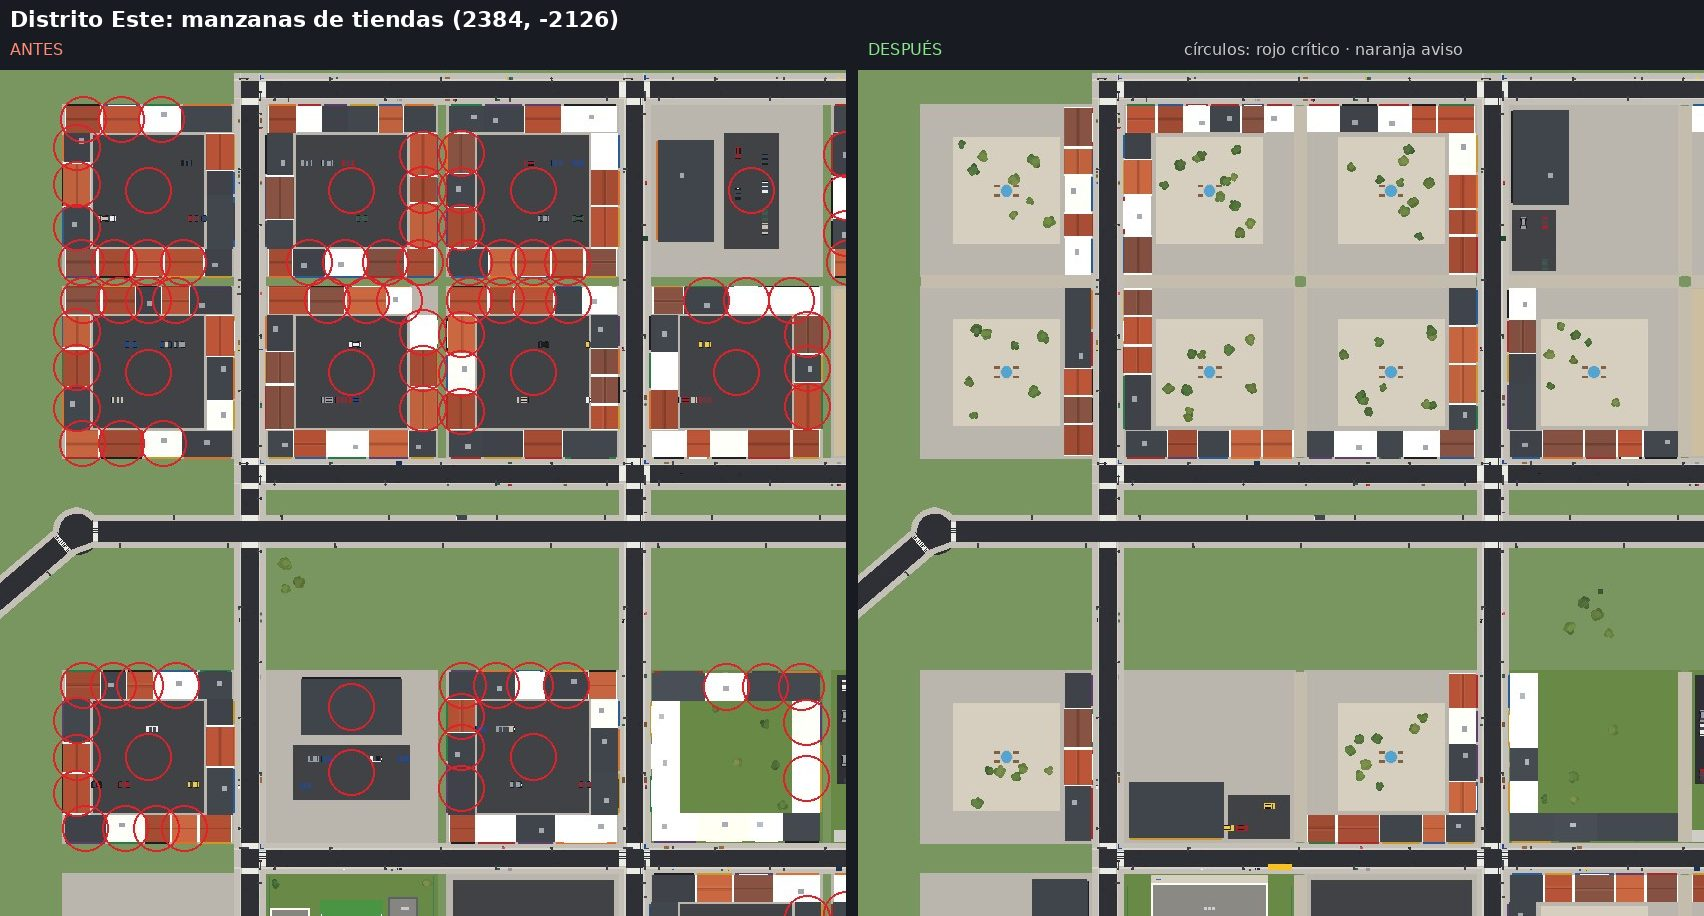
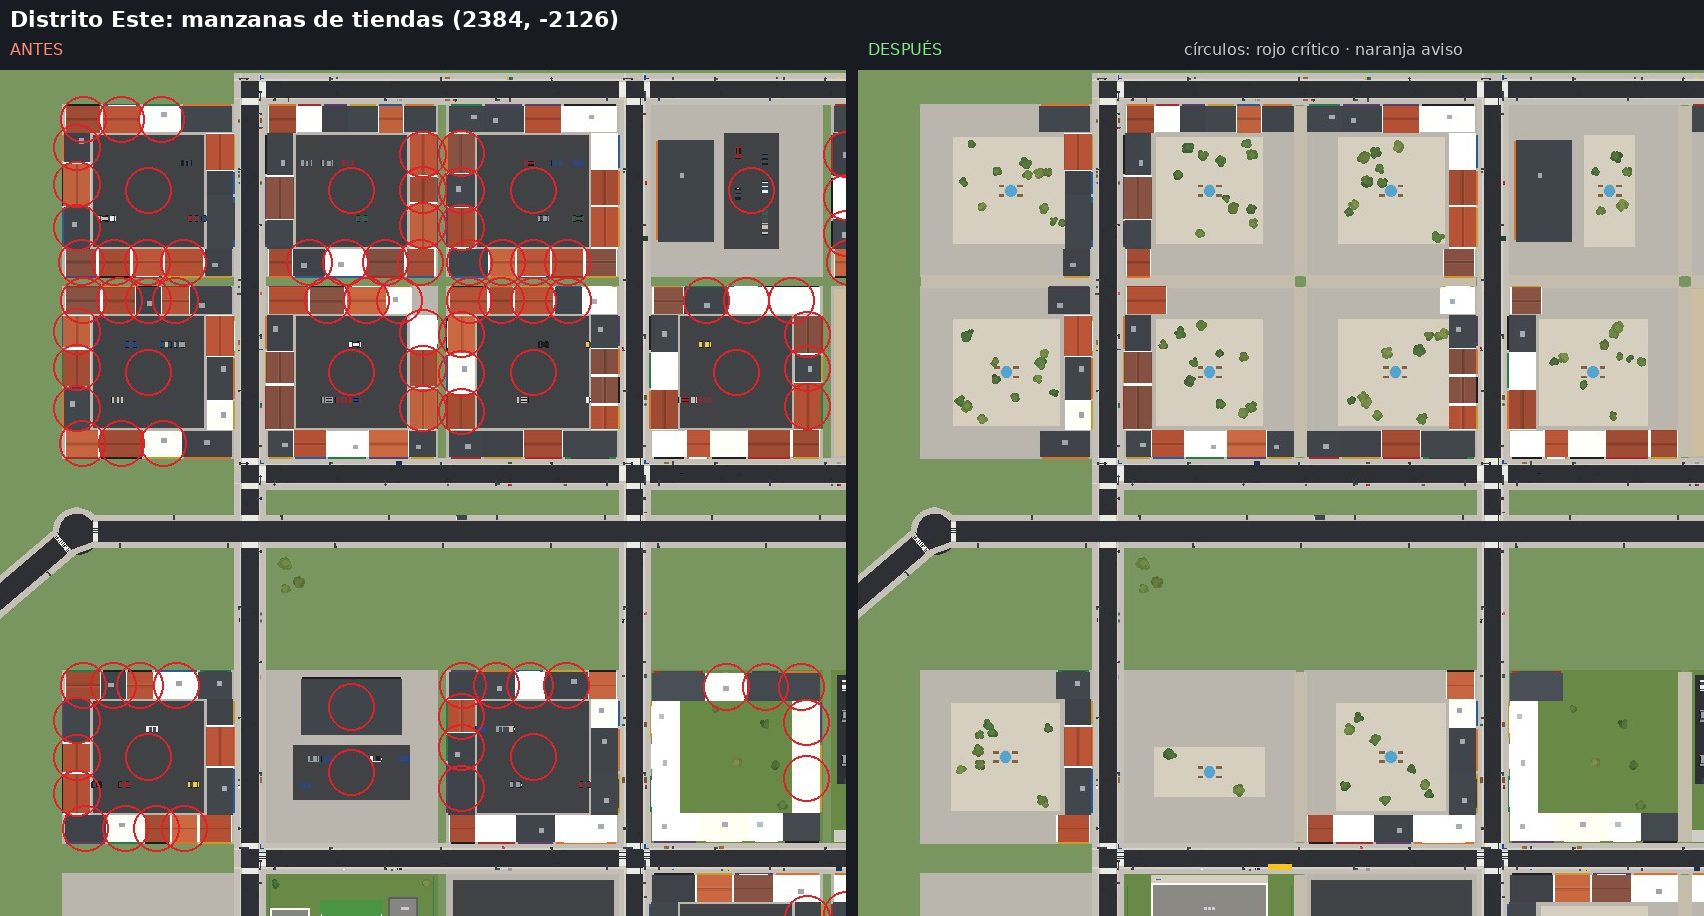
Mapa: hoteles rehechos mirando a la calle, mapa de claves, imágenes y documento al día
Claude-Session: https://claude.ai/code/session_01NLHSc9vUgM3Lfn2jUL556r

diff --git a/roblox/docs/mapa/revision/revision-mapa.md b/roblox/docs/mapa/revision/revision-mapa.md
@@ -41,7 +41,7 @@ python3 scripts/map/vista_cenital.py DIR/parts.tsv salida.jpg --issues coherenci
 | | Críticos | Avisos | Piezas |
 |---|---|---|---|
 | Antes | **810** | 74 | 416 757 |
-| Después | **0** | 18 | 365 332 |
+| Después | **0** | 50 | 364 750 |
 
 Antes, por distrito (críticos): Oeste 378, Este 202, Universitario 129, Sur 43, Norte 28, Centro 23,
 Playa Dorada 4, sitios de ocio en el campo 3. Casi todo era `sin_acceso` (783 unidades): casas, tiendas
@@ -51,11 +51,17 @@ manzanas al 84–96 % en el centro, 4 trozos de arena tapando la calle de Playa 
 Peores sitios antes: (2384, −2126) Este, (2892, −1144) Este, (−1627, −380) Oeste, (−2129, −1127) Oeste,
 (−1627, 2625) Oeste, (2903, −629) Este.
 
-Avisos que quedan (a propósito): 13 `calle_doble` (la cuadrícula a 45 studs de la circunvalación del
-Distrito Financiero, de Los Pinos y de Playa Dorada: quitar esos tramos deja sin acera la Protectora, los
-Jardines de la Plaza Mayor y la rampa de la estación de Cercanías de Los Pinos), las casas familiares
-de Los Pinos (72 %, son de la historia), una residencia del campus, la boca de metro del parque del
-Distrito Financiero y un cruce del final de la Calle del Puerto.
+Avisos que quedan (a propósito):
+- 13 `calle_doble`: la cuadrícula a 45 studs de la circunvalación del Distrito Financiero, de Los Pinos
+  y de Playa Dorada. Quitar esos tramos deja sin acera la Protectora, los Jardines de la Plaza Mayor y
+  la rampa de la estación de Cercanías de Los Pinos, y cambiaría las calles (y con ellas el azar y las
+  claves de todos los edificios: ver abajo).
+- 5 `calle_cortada` por la misma razón (las calles no se tocan).
+- 25 `sin_acceso` de aviso: casas y villas a 23–28 studs de la acera (jardín delantero).
+- 4 `zonificacion`: rascacielos de antes en manzanas del centro fuera de la franja norte (se quedan
+  para no cambiar claves de edificios).
+- Las casas familiares de Los Pinos (72 %, son de la historia), una residencia del campus y la boca de
+  metro del parque del Distrito Financiero.
 
 ## Las causas y los arreglos (en el código que genera el mapa)
 
@@ -63,41 +69,77 @@ Distrito Financiero y un cruce del final de la Calle del Puerto.
    las calles; luego `Kit/Grid` y `Kit/Connect` quitan los trozos de calle que no llegan a ningún cruce,
    y quedaban manzanas enteras en medio del campo. Además, fuera de la Ronda cada cuadra de 500 se parte
    en 4 manzanas con un hueco de 16 studs, y los edificios se ponían en los 4 lados: la mitad miraba al
-   hueco. Ahora `Districts.lots` solo construye las manzanas que dan a una calle de verdad y anota sus
-   lados con calle (`Sides`): casas, pisos, tiendas, villas, hoteles, facultades… solo miran a esos lados.
-   Los lugares emblemáticos se eligen entre esas manzanas y su fachada da a una calle.
-2. **Medias manzanas estrechas** junto a las avenidas del centro (80 studs): dos filas de 40 de fondo y
-   hasta 16 plantas espalda con espalda, metidas una en otra, y rascacielos de 50–72 studs en ellas.
-   Ahora el fondo de cada fila se recorta, las esquinas son de los lados largos, las filas son más bajas
-   (5–9 plantas) y los rascacielos solo van en manzanas anchas.
-3. **Zonificación del centro**: rascacielos sorteados en cualquier manzana y manzanas enteras de
-   aparcamiento. Ahora los rascacielos quedan en la franja norte (junto al Distrito Financiero) y el
-   resto son bloques de pisos con tiendas y parques (sin cambiar el sorteo: el resto del mapa no se mueve).
-4. **Aparcamientos sin entrada**: dentro del patio de las manzanas de tiendas (ahora plaza peatonal) y
-   detrás de los locales de ocio y los talleres (ahora al lado, los dos mirando a la calle). El campo de
-   deporte va junto a la calle, con la grada detrás.
-5. **Huecos entre manzanas y carreteras**: junto a la Ronda y las avenidas la cuadrícula se aparta 25–40
+   hueco. Ahora `Districts.lots` sabe qué manzanas dan a una calle y por qué lados (`Sides`), y
+   `Districts.tidy` quita las manzanas sin calle y los edificios, casas, villas y aparcamientos que no
+   miran a ningún lado con calle.
+2. **Medias manzanas estrechas** junto a las avenidas del centro (80 studs): dos filas de 40 de fondo
+   espalda con espalda, metidas una en otra, y rascacielos de 50–72 studs en ellas. Ahora se queda la
+   fila que da a la avenida y ningún edificio se mete en otro.
+3. **Aparcamientos sin entrada**: dentro del patio de las manzanas de tiendas (ahora plaza peatonal) y
+   detrás de los locales de ocio y los talleres (fuera). El campo de deporte va junto a la calle, con la
+   grada detrás; los hoteles que miraban a un hueco se rehacen mirando a la calle.
+4. **Huecos entre manzanas y carreteras**: junto a la Ronda y las avenidas la cuadrícula se aparta 25–40
    studs; esa franja de hierba ahora es acera (`AceraManzana`), y los huecos de 16 studs entre manzanas,
    paseos peatonales (`Paseo`).
-6. **Calles cortadas** (`Region.roads`): calles que cruzan una carretera en ángulo muy cerrado quedaban
-   cortadas a unos studs de ella. Ahora se alargan hasta tocarla o se recortan hasta su último cruce.
-7. **Sitios de ocio como islas** (`Kit/ZonasVerdes/Accesos`, nuevo): mercadillo, vóley playa,
+5. **Sitios de ocio como islas** (`Kit/ZonasVerdes/Accesos`, nuevo): mercadillo, vóley playa,
    polideportivo, karting y skatepark tienen un camino de baldosas hasta la acera más cercana.
-8. **Arena sobre la calle** (`Civic.beach`): la arena de Playa Dorada pasaba 30 studs del borde de la
+6. **Arena sobre la calle** (`Civic.beach`): la arena de Playa Dorada pasaba 30 studs del borde de la
    manzana y tapaba la circunvalación.
+7. **Lugares emblemáticos** con la fachada a un hueco sin calle (o en una manzana sin calle): se rehacen
+   mirando a la calle (o en la manzana libre más cercana de su distrito).
+
+## Las partidas guardadas: claves de los edificios
+
+Las partidas guardan los edificios por su clave (`InteriorService`: `<Tipo>_<X>_<Z>`, el centro del
+edificio): viviendas compradas, alquiladas e iniciales (`data.Properties`, `data.Housing.Home`) y
+negocios (`BusinessService`: locales `L:<clave>`, hoteles `H:x_z`). Por eso:
+
+- **Los edificios que se quedan conservan su clave.** `Districts.build` construye cada manzana
+  exactamente como antes (mismo orden y mismo `math.random`) y después, sin azar, quita lo que sobra
+  (`Districts.tidy`); lo que hay que volver a construir con azar (lugares emblemáticos, campos de
+  deporte, hoteles, plazas) va al final de `TownBuilder` (`Districts.finish`), cuando ya no mueve nada
+  más. Las calles no cambian. Resultado: de los 2042 edificios con clave del mapa publicado, 1270 siguen
+  igual, 772 se han quitado y 13 son nuevos (lugares emblemáticos girados).
+- **Mapa de claves** (`src/server/Migrations/BuildingKeyMap.luau`, GENERADO): para cada clave quitada
+  (772 edificios y 185 negocios), hasta 6 sustitutos del mismo tipo (casa↔villa, piso en un portal o
+  un local), del mismo distrito si se puede y el más cercano primero. Se rehace así:
+
+  ```
+  lune run scripts/map/building-keys.luau MAPA_PUBLICADO.rbxl antes.json
+  lune run scripts/map/building-keys.luau MAPA_NUEVO.rbxl despues.json
+  python3 scripts/map/key-map.py antes.json despues.json --version 1
+  ```
+
+  (`scripts/map/data/claves-v1.json`: todas las claves del mapa de antes; son las mismas que las del
+  `RealLifeSimulator.rbxl` publicado.)
+- **Migración al cargar** (`Migrations/BuildingKeyMigration`, funciones puras, y
+  `HousingService.migrateKeys`): cada vivienda de un edificio quitado se muda al primer sustituto con
+  sitio (`PropertyService.relocate`: la misma planta y letra si vale y está libre; si no, la primera
+  libre), con su contrato, precio, alquiler y deuda; «Ir a casa» va detrás. Si no hay sitio: se devuelve
+  lo pagado (compra), se perdona la deuda (alquiler) o le llega otra vivienda inicial. El sitio
+  guardado (`data.Position`) donde había un edificio quitado se borra (aparece en la entrada o en su
+  cama). Un aviso al jugador. Una sola vez (`Housing.KeyMigration`, que pasa a la vida nueva); si el
+  DataStore falla, no se toca nada y se vuelve a intentar en la próxima carga.
+- **Negocios** (`BusinessService.migratePremises`, al arrancar el servidor): el registro entero de un
+  local u hotel quitado (tipo, nombre, caja, género, empleados) pasa al primer sustituto libre; si no
+  hay, se da de baja y lo que costó se devuelve a su dueño cuando entra (`Reembolsos`, con aviso).
+- **Prueba**: `lune run scripts/test-buildingkeys.luau [MAPA.rbxl]` (la migración con datos de mentira;
+  con el mapa, que toda clave de antes sigue o está en el mapa con un sustituto que existe).
 
 ## Qué se ha movido
 
 - No se mueve: casa familiar, Los Pinos, colegio de Los Pinos, garaje de Cosme, comisarías, bomberos,
-  hospital, metro, Cercanías, aeropuerto, Valmar Centro, zonas verdes y de ocio, ni las calles de los barrios.
+  hospital, metro, Cercanías, aeropuerto, Valmar Centro, zonas verdes y de ocio, las calles, ni los
+  edificios de los barrios.
 - El Colegio del Distrito Sur y el Instituto de Levante ahora miran al norte (su fachada sur daba a un
   paseo sin calle): sus marcas de la historia (`StorySpot`, `StoryArea`, `StoryProp`) van con ellos.
 - Supermercados Norte, Sur, Poniente y Campus giran hacia su calle (unos 30–60 studs); la Armería del
-  Puerto pasa a otra manzana del Distrito Sur (993, 2163); el cuartel del ejército (la nave más al este)
-  pasa a (1044, 1504).
-- Ya no están los 4 hoteles de la costa oeste que no tenían calle (quedan 4), ni las casas y villas que
-  miraban a huecos sin calle: casas visitables 536 → 266, villas 60 → 28, viviendas en total
-  1894 → 1202 (siguen sobrando para jugar). Parques vivos: 25 (eran 30).
+  Puerto pasa a otra manzana del Distrito Sur (993, 2163).
+- Ya no están los 4 hoteles de la costa oeste que no tenían calle (quedan 4, rehechos mirando a la
+  calle), ni las casas y villas que miraban a huecos sin calle: casas visitables 536 → 263, villas
+  60 → 35, viviendas en total 1894 → 1170. Parques vivos: 25 (eran 30).
+- Los vecinos de la historia (`PropertyService`: viviendas de vecinos por sorteo fijo) pueden vivir en
+  otra vivienda: la lista de viviendas ha cambiado.
 - `docs/mapa/lugares.json` rehecho con `scripts/map/export.luau`.
 
 ## Imágenes (en esta carpeta)
@@ -106,12 +148,13 @@ Distrito Financiero y un cruce del final de la Calle del Puerto.
   problemas (rojo crítico, naranja aviso).
 - `*-antes-despues.jpg`: las peores zonas, antes y después: `centro-avenida` (la zona más parecida a la
   captura: torres apretadas en medias manzanas, el aparcamiento del hospital, el parque con su pista y
-  los trozos de calle entre las medias manzanas, hacia (60, 750)), `centro-oeste`, `financiero`,
+  los trozos de calle entre las medias manzanas, hacia (60, 750); no se puede saber el punto exacto por
+  la foto), `centro-oeste`, `financiero`,
   `este-comercio`, `oeste-casas`, `universitario`, `norte-super`, `playa-dorada`, `sur-puerto`.
 
 ## Mapa grande del menú
 
-Las calles y los edificios han cambiado, así que el dibujo del mapa grande (`textures/mapa/isla_*`) se
+Los edificios han cambiado, así que el dibujo del mapa grande (`textures/mapa/isla_*`) se
 ha vuelto a renderizar con `scripts/map/blender_render.py` (la proyección `MapProjection` no cambia: la
 cámara es la misma). **En la próxima publicación hay que volver a subir los trozos con
 `scripts/upload-map.sh --force`.**
